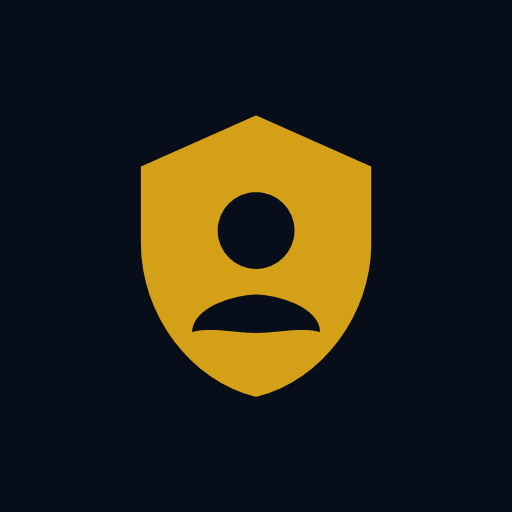
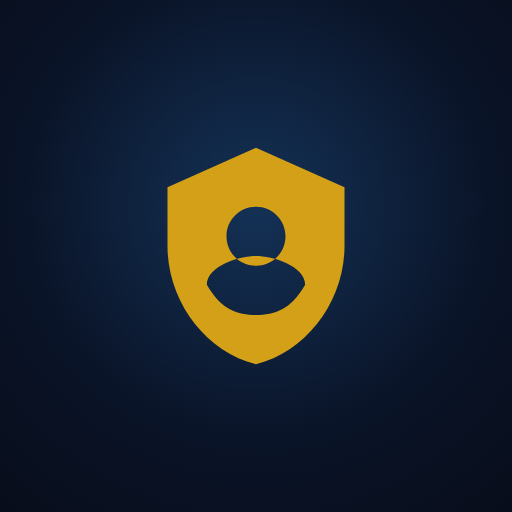
Ícone do app: brasão (escudo) dourado da Certive no lugar da letra C

diff --git a/app.html b/app.html
@@ -12,8 +12,8 @@
     <meta name="apple-mobile-web-app-capable" content="yes">
     <meta name="apple-mobile-web-app-status-bar-style" content="black-translucent">
     <meta name="apple-mobile-web-app-title" content="Certive">
-    <link rel="apple-touch-icon" href="/icons/apple-touch-icon.png">
-    <link rel="icon" type="image/png" href="/icons/icon-192.png">
+    <link rel="apple-touch-icon" href="/icons/apple-touch-icon.png?v=2">
+    <link rel="icon" type="image/png" href="/icons/icon-192.png?v=2">
 
     <link rel="stylesheet" href="styles.css?v=20260814_chatgpt-auto">
     <link href="https://cdn.jsdelivr.net/npm/remixicon@3.5.0/fonts/remixicon.css" rel="stylesheet">
